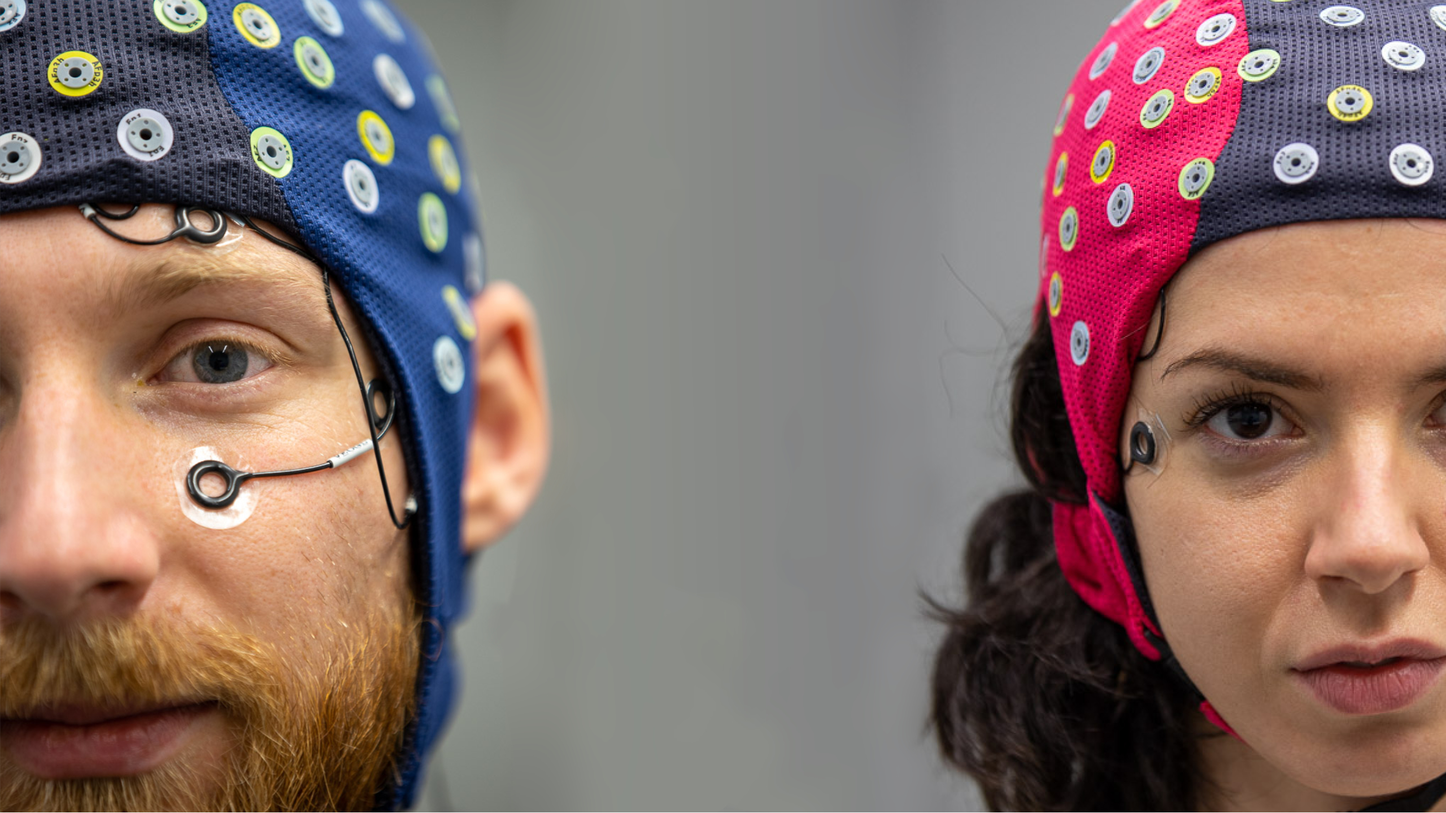
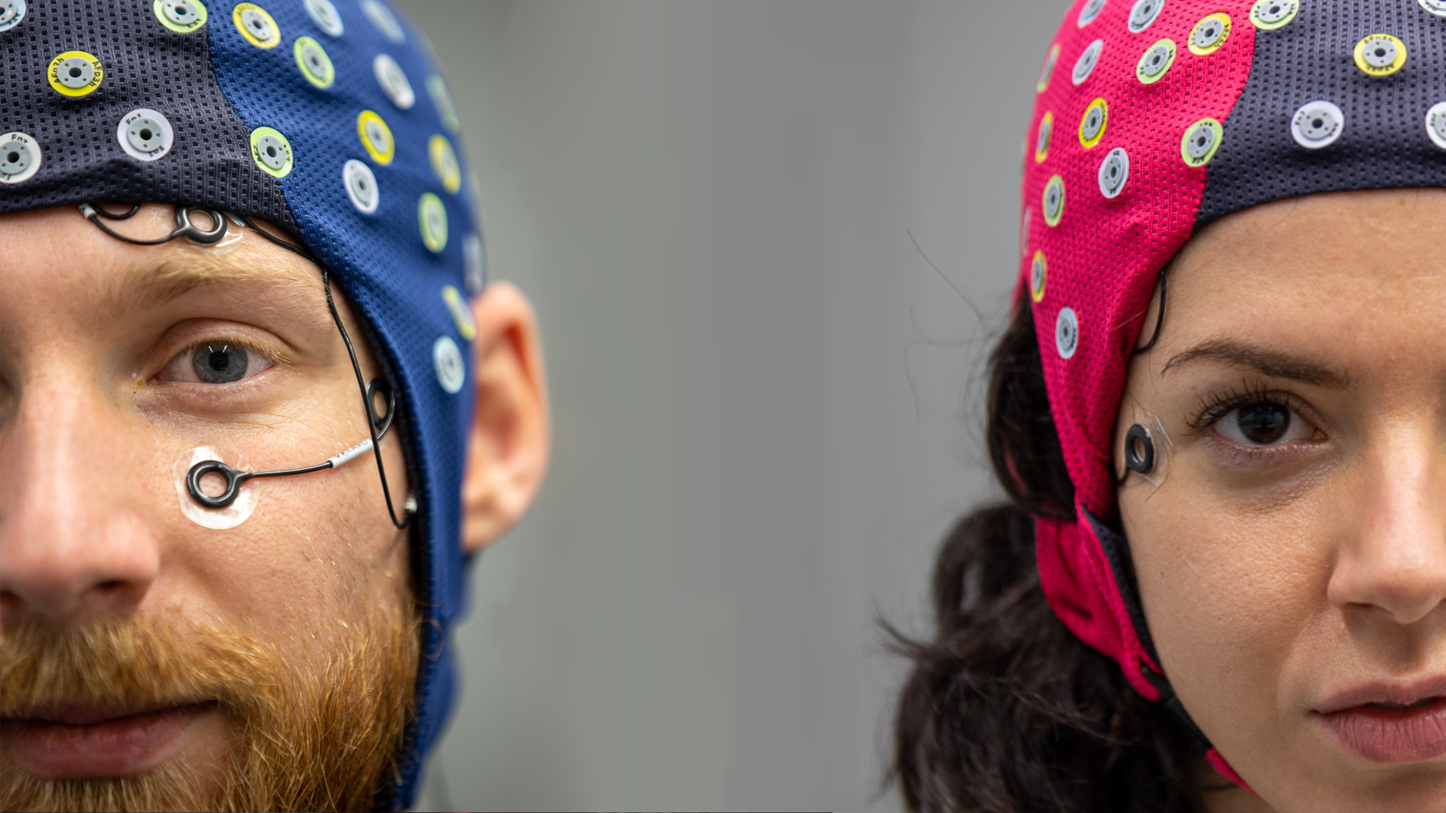
updated title image

Changed region(s): [[0.5938, 0.0, 1.0, 1.0], [0.9688, 0.375, 1.0, 0.4062]]

diff --git a/_css/franklin.css b/_css/franklin.css
@@ -102,7 +102,7 @@ html {
   max-width: 100%;
   height: calc(100vh - 77.39px);
   background-color: black;
-  background-image: url("../assets/img/title_img_v001.jpg");
+  background-image: url("../assets/img/title_img.jpg");
   background-size: cover;
   background-position: center center;
 }
